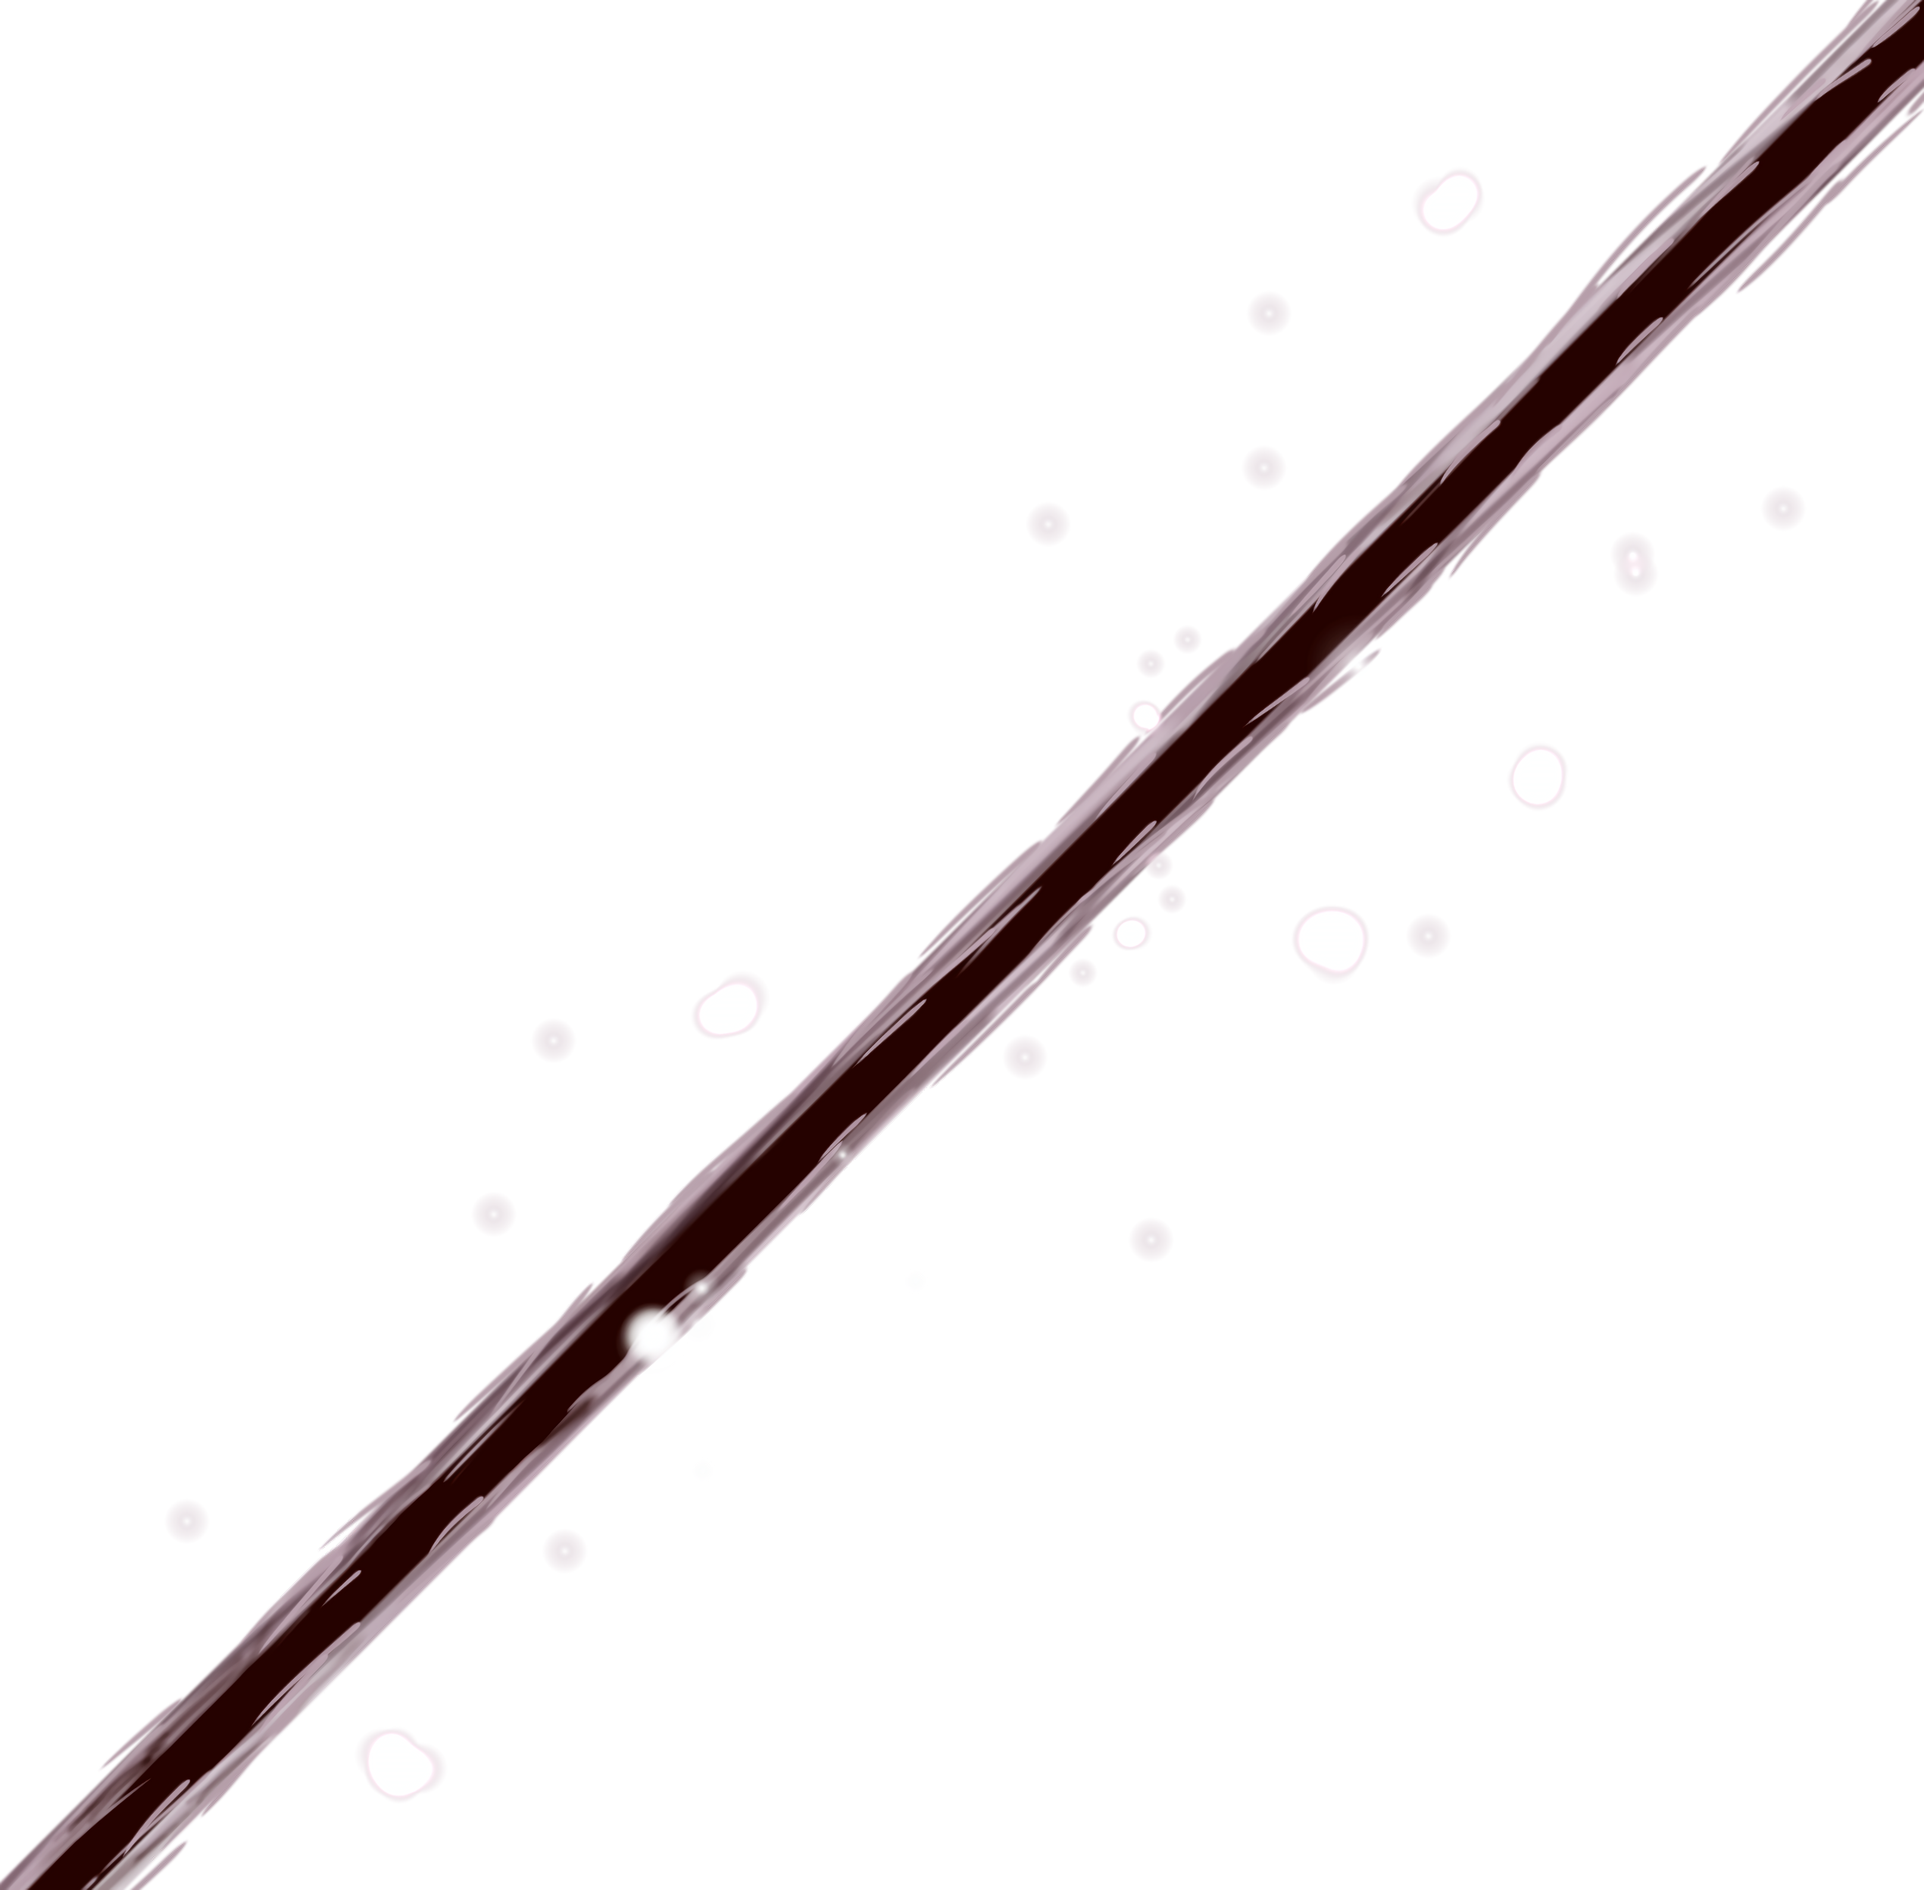
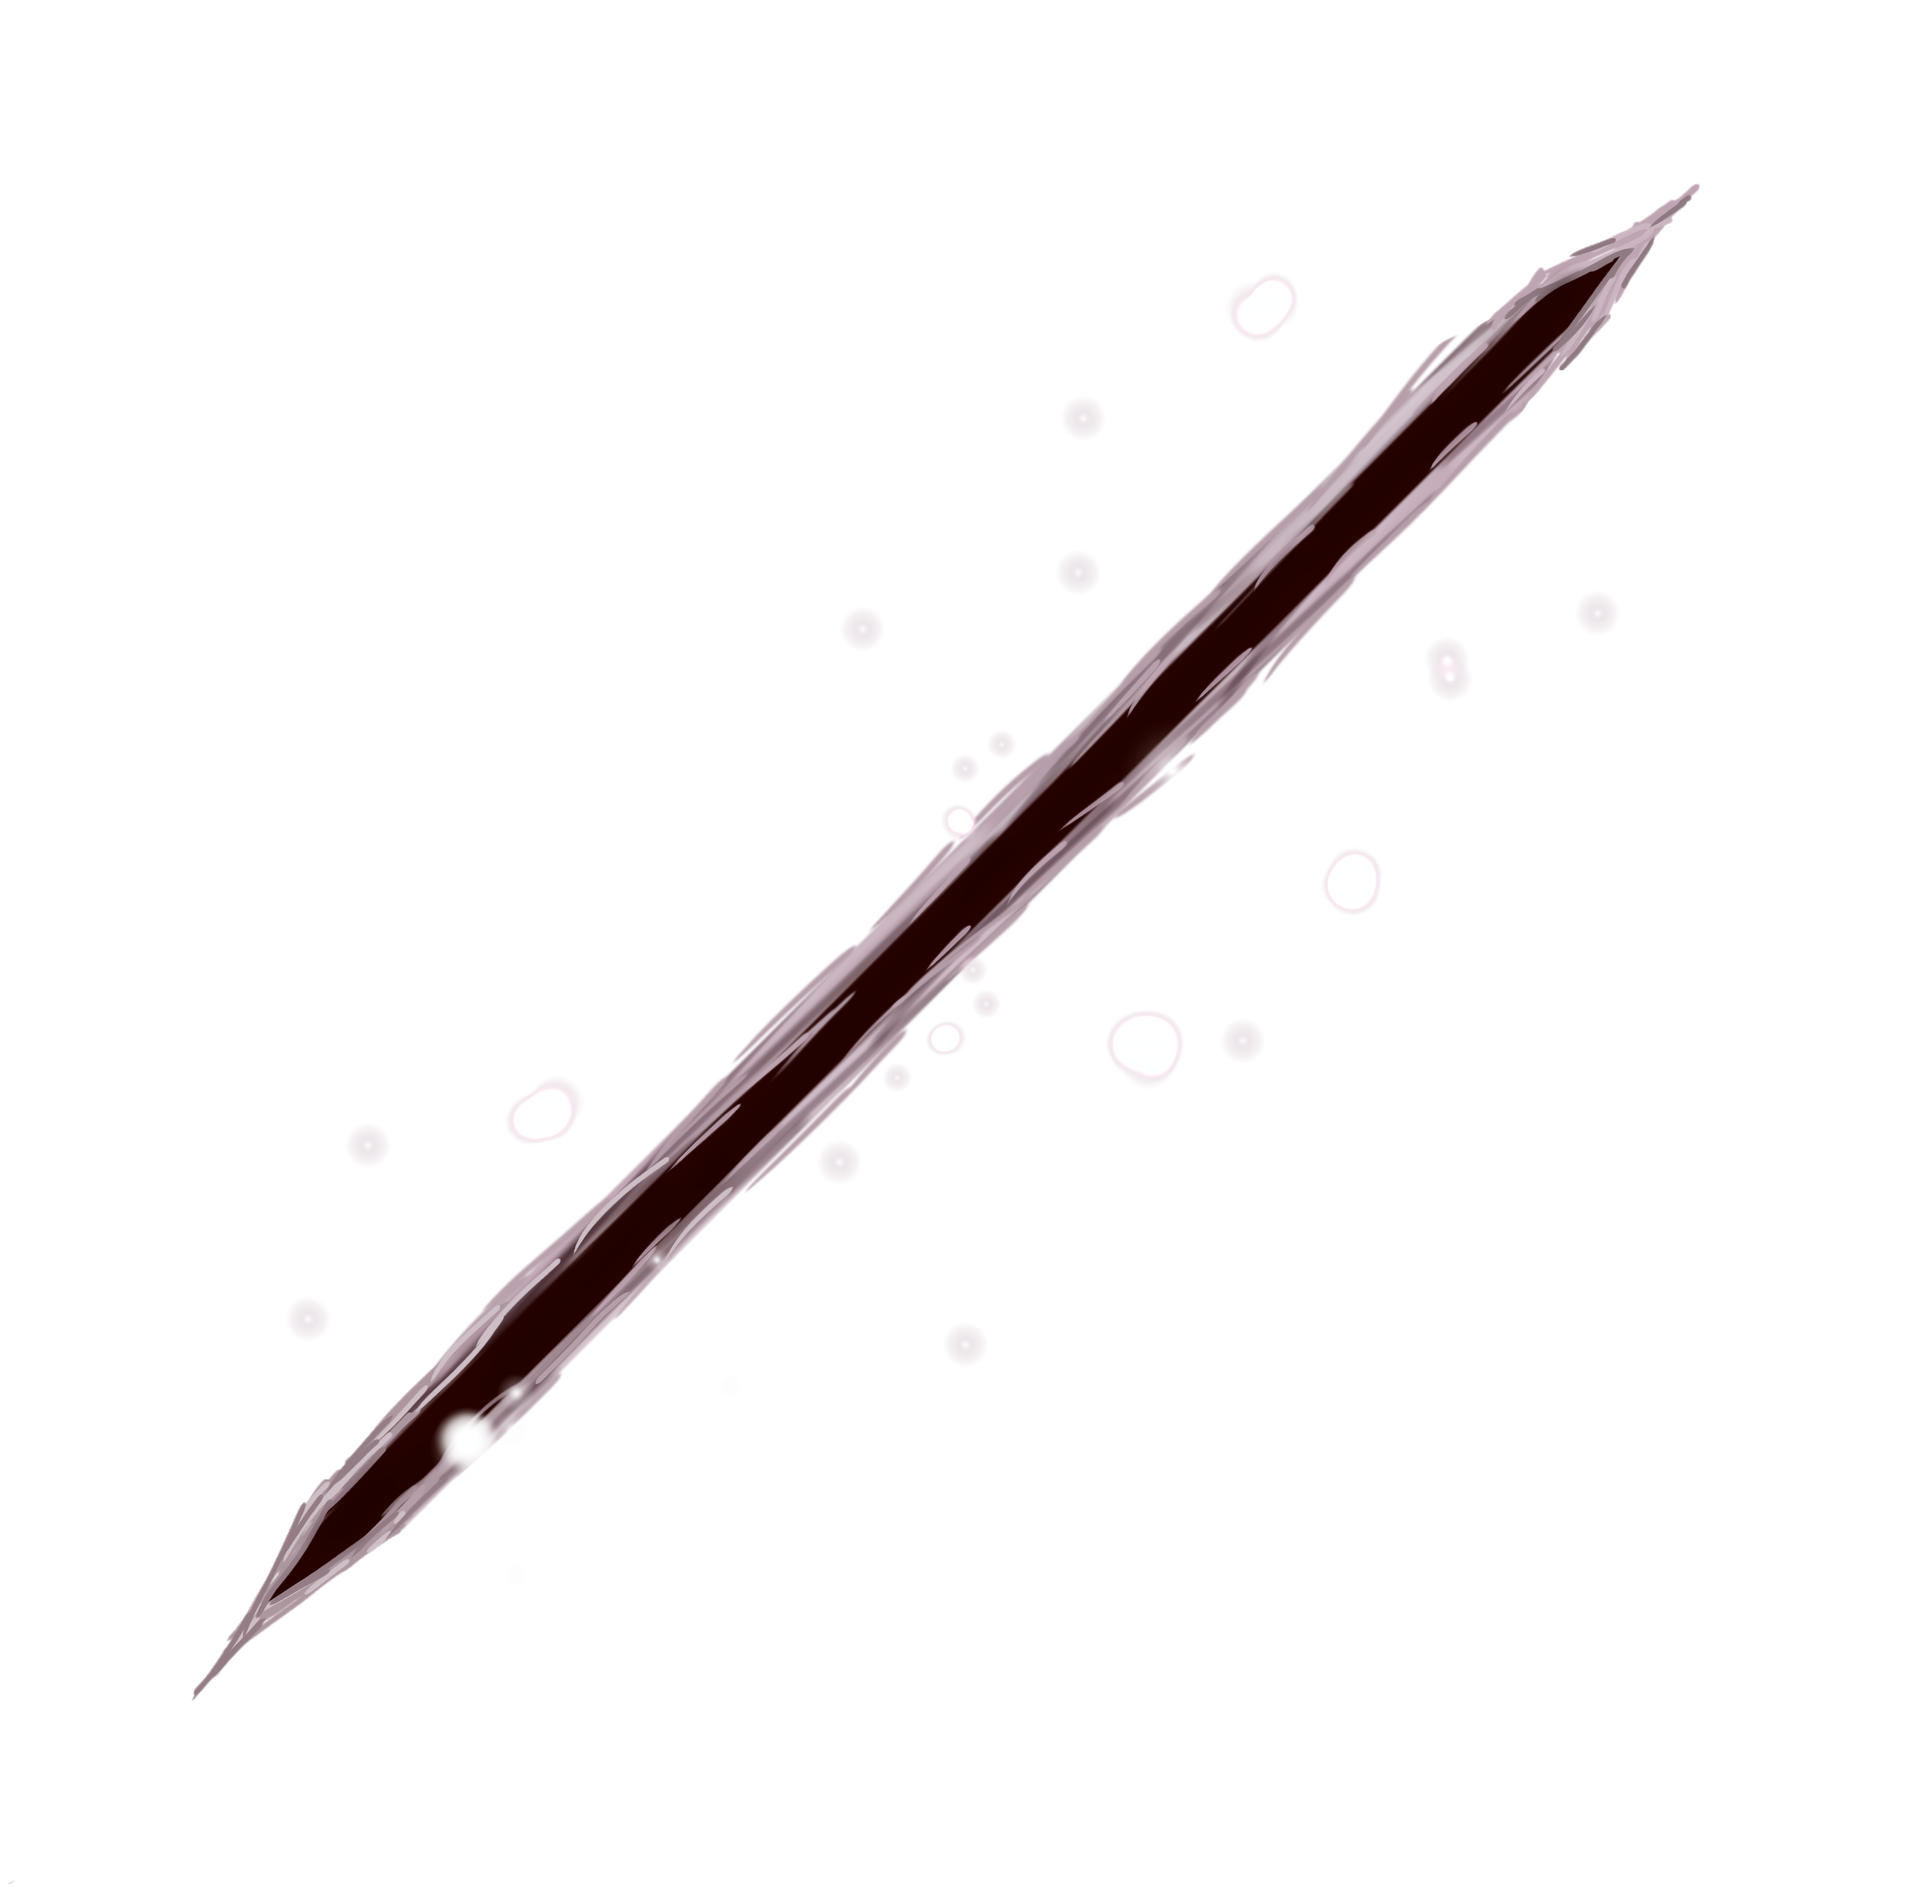
slash image and rival rapid attack

Changed region(s): [[0.0, 0.0, 1.0, 1.0]]

diff --git a/src/components/Rival.tsx b/src/components/Rival.tsx
@@ -1,6 +1,6 @@
 import React, { useEffect } from 'react';
 import { useDispatch, useSelector } from "react-redux";
-import { moveRival, rivalAttacking, setRivalDirection } from '../store/RivalSlice';
+import { moveRival, rivalAttacking, setRapidAttack, setRivalDirection } from '../store/RivalSlice';
 import { healthReducer } from '../store/PlayerSlice';
 
 
@@ -15,6 +15,7 @@ const Rival = ({ xDistance }) => {
     const characterHeight = 150;
     const attackDamage = rival.closeRange ? -100 : -10; // Saldırı hasarı
     const [electricityEffect, setElectricityEffect] = React.useState(false);
+    const [rapidAttackCounter, setRapidAttackCounter] = React.useState(5);
 
     const attackInterval = React.useRef(null);
 
@@ -26,9 +27,10 @@ const Rival = ({ xDistance }) => {
             setTimeout(() => {
                 setElectricityEffect(false)
             }, 2000);
-        }, 1000);
+        }, 500);
     }, [nue.isAttacking]);
 
+    // Rival auto attack starter
     useEffect(() => {
         if (rival.health > 0 && player.health > 0) {
             startAttackInterval();
@@ -39,19 +41,29 @@ const Rival = ({ xDistance }) => {
             stopAttackInterval(); // Bileşen unmount olduğunda interval'ı temizle
         };
 
-    }, [dispatch, attackDamage, rival.direction, rival.canMove]);
+    }, [dispatch, attackDamage, rival.direction, rival.canMove, rapidAttackCounter]);
 
 
     const startAttackInterval = () => {
         const randomInterval = 2000; // 3-10 saniye arasında rastgele bir değer
         // const randomInterval = Math.floor(Math.random() * 8000) + 3000; // 3-10 saniye arasında rastgele bir değer
         attackInterval.current = setInterval(() => {
-            if (player.health > 0 && rival.health > 0 && rival.canMove) {
-                dispatch(rivalAttacking(true));
-                setTimeout(() => {
-                    dispatch(rivalAttacking(false));
-                }, 1000)
-                dispatch(healthReducer(attackDamage)); // Player'ın canını azalt
+            if (player.health > 0 && rival.health > 0) {
+                // if (player.health > 0 && rival.health > 0 && rival.canMove) {
+                if (rapidAttackCounter === 0) {
+                    setRapidAttackCounter(5);
+                    dispatch(setRapidAttack(true));
+                    setTimeout(() => {
+                        dispatch(setRapidAttack(false));
+                    }, 1000);
+                } else {
+                    setRapidAttackCounter(rapidAttackCounter - 1);
+                    dispatch(rivalAttacking(true));
+                    setTimeout(() => {
+                        dispatch(rivalAttacking(false));
+                    }, 1000)
+                    dispatch(healthReducer(attackDamage)); // Player'ın canını azalt
+                }
             } else {
                 stopAttackInterval(); // Player ölünce saldırıyı durdur
             }
@@ -81,10 +93,10 @@ const Rival = ({ xDistance }) => {
                 </div>
                 <p style={{ position: "absolute", top: "50%", left: "50%", transform: "translate(-50%, -120%)", fontSize: "15px" }}>{rival.health}</p>
             </div>
-            <p style={{ position: "absolute", top: "50%", left: "-50%", transform: "translate(-50%, -50%)", fontSize: "15px" }}>
+            {/* <p style={{ position: "absolute", top: "50%", left: "-50%", transform: "translate(-50%, -50%)", fontSize: "15px" }}>
                 Rival Direction: {rival.direction} <br /> Range: {rival.closeRange ? "Close Range" : "Far Range"} <br /> Distance: {xDistance}
-            </p>
-            <p style={{ marginTop: 170, width: 250, marginLeft: -50 }}>Aysuliw's Nightmare</p>
+            </p> */}
+            <p style={{ marginTop: 170, width: 250, marginLeft: -55, color: "black" }}>Ryomen Sukuna</p>
         </div>
     );
 };

diff --git a/src/components/Player.tsx b/src/components/Player.tsx
@@ -1,16 +1,43 @@
 import { useEffect, useRef } from "react";
 import { useDispatch, useSelector } from "react-redux";
-import { movePlayer } from "../store/PlayerSlice";
+import { healthReducer, movePlayer } from "../store/PlayerSlice";
 import { setRivalDirection, setCloseRange } from "../store/RivalSlice";
 import { setNueDirection } from "../store/NueSlice";
+import React from "react";
 
 const Player = ({ xDistance }) => {
     const player = useSelector((state: any) => state.PlayerState);
     const rival = useSelector((state: any) => state.RivalState);
+    const [displaySlash, setDisplaySlash] = React.useState("none");
     const dispatch = useDispatch();
+    const [slashRotation, setSlashRotation] = React.useState({ rotate: "270deg" });
 
     const characterWidth = 50;
     const characterHeight = 180;
+
+    useEffect(() => {
+        rival.isAttacking && Math.abs(rival.x - player.x) >= 200 ? setDisplaySlash("block") : setDisplaySlash("none")
+    }, [rival.isAttacking]);
+
+    useEffect(() => {
+        if (rival.rapidAttack) {
+            rapidAttack()
+            setDisplaySlash("block");
+            setTimeout(() => {
+                setDisplaySlash("none")
+            }, 1000);
+        }
+    }, [rival.rapidAttack])
+
+    const rapidAttack = () => {
+        const degrees = [90, 270, 30, 120, 300, 240, 210, 180, 60, 150];
+        for (let i = 0; i < degrees.length; i++) {
+            setTimeout(() => {
+                setSlashRotation({ rotate: degrees[i] + "deg" });
+                dispatch(healthReducer(-10));
+            }, i * 100);
+        }
+    };
 
     return (
         <div
@@ -34,10 +61,9 @@ const Player = ({ xDistance }) => {
                 <p style={{ position: "absolute", top: "50%", left: "50%", transform: "translate(-50%, -130%)", fontSize: "15px" }}>{player.cursedEnergy}</p>
             </div>
 
-            <img src={require('../Assets/slash.png')} alt="" style={{ top: "-15px", left: "-30px", display: rival.isAttacking && Math.abs(rival.x - player.x) >= 200 ? "block" : "none", height: characterHeight, width: "200px", rotate: "90deg", transform: "scale(0.7)" }} />
+            <img src={require('../Assets/slash.png')} alt="" style={{ top: "-15px", left: "-30px", display: displaySlash, height: characterHeight, width: "200px", ...slashRotation, transform: "scale(0.7)" }} />
             {/* <img src="slash.png" alt="" style={{ top: "-25px", left: "-10px", display: rival.isAttacking ? "block" : "none", height: characterHeight, width: "200px", opacity: 0.8, rotate: "270deg", transform: "scaleY(-1)" }} /> */}
-            <img src={require('../Assets/dismantle.png')} alt="" style={{ top: "-15px", left: "-30px", display: rival.isAttacking && Math.abs(rival.x - player.x) < 200 ? "block" : "none", height: characterHeight, width: "200px", opacity: 0.8, rotate: "225deg", transform: "scale(0.5)" }} />
-
+            <img src={require('../Assets/dismantle.png')} alt="" style={{ top: "-15px", left: "-30px", display: rival.isAttacking && Math.abs(rival.x - player.x) < 200 ? "block" : "none", height: characterHeight, width: "200px", opacity: 0.8, rotate: "270deg", transform: "scale(0.5)" }} />
         </div>
     );
 };

diff --git a/src/components/Nue.tsx b/src/components/Nue.tsx
@@ -1,7 +1,7 @@
 import { useEffect, useRef, useState } from "react";
 import { useDispatch, useSelector } from "react-redux";
 import { moveNue, nueActivity, nueAttacking, setNueDirection } from "../store/NueSlice";
-import { updateRivalHealth } from "../store/RivalSlice";
+import { setRivalCanMove, updateRivalHealth } from "../store/RivalSlice";
 import { changeCursedEnergy } from "../store/PlayerSlice";
 
 
@@ -73,12 +73,13 @@ const Nue = () => {
 
         dispatch(nueAttacking(true));
         dispatch(changeCursedEnergy(-nueAttackCost));
-        setNueStyle({ ...nueStyle, transition: "all 1s ease" });
+        setNueStyle({ ...nueStyle, transition: "all .5s ease" });
         dispatch(setNueDirection(attackDirection));
         // setImageStyle({ ...imageStyle, transform: `scaleX(${attackDirection === "right" ? -1 : 1})` });
         dispatch(moveNue({ x: rival.x, y: rival.y - 100 })); //move to rival
 
         setTimeout(() => {
+            dispatch(setRivalCanMove(false)); // stun rival
             setImageSrc(require('../Assets/nue.png')); // nue arrives to rival
 
             setTimeout(() => { // electric attack
@@ -93,6 +94,7 @@ const Nue = () => {
                     dispatch(updateRivalHealth(-nueDamage))
                     setTimeout(() => {
                         dispatch(nueAttacking(false));
+                        dispatch(setRivalCanMove(true)); // cancel stun rival
                         dispatch(setNueDirection(attackDirection === "right" ? "left" : "right"));
                         setTimeout(() => {
                             setImageStyle({ ...imageStyle, transform: "" });
@@ -101,7 +103,7 @@ const Nue = () => {
                     }, 1000);
                 }, 250)
             }, 250)
-        }, 1000)
+        }, 500)
     }
 
     useEffect(() => {

diff --git a/src/store/RivalSlice.ts b/src/store/RivalSlice.ts
@@ -14,6 +14,7 @@ const initialState: Rival = {
   rivalDirection: "stop",
   closeRange: false,
   canMove: false,
+  rapidAttack: false,
 };
 
 const RivalSlice = createSlice({
@@ -56,6 +57,10 @@ const RivalSlice = createSlice({
     setRivalCanMove(state, action) {
       state.canMove = action.payload;
     },
+    setRapidAttack(state, action) {
+      state.rapidAttack = action.payload;
+    },
+
     // Diğer action'lar (yumrukAt, nue çağırma, domain açma vb.)
   },
 });
@@ -68,5 +73,6 @@ export const {
   setCloseRange,
   setRivalPosition,
   setRivalCanMove,
+  setRapidAttack,
 } = RivalSlice.actions;
 export default RivalSlice;

diff --git a/src/Pages/GameArea.tsx b/src/Pages/GameArea.tsx
@@ -182,9 +182,9 @@ const GameArea = () => {
   return (
     <div className="game-area">
       <Player xDistance={xDistance} />
-      <h1>{rival.rivalDirection}
+      {/* <h1>{rival.rivalDirection}
         <br /> {yDistance}
-      </h1>
+      </h1> */}
       <Nue />
       <Rival xDistance={xDistance} />
     </div>

diff --git a/src/App.tsx b/src/App.tsx
@@ -25,6 +25,7 @@ export interface Rival {
   rivalDirection: "L" | "R" | "U" | "D" | "UL" | "UR" | "DL" | "DR" | "stop";
   closeRange: boolean;
   canMove: boolean;
+  rapidAttack: boolean;
 }
 export interface Nue {
   isActive: boolean;
